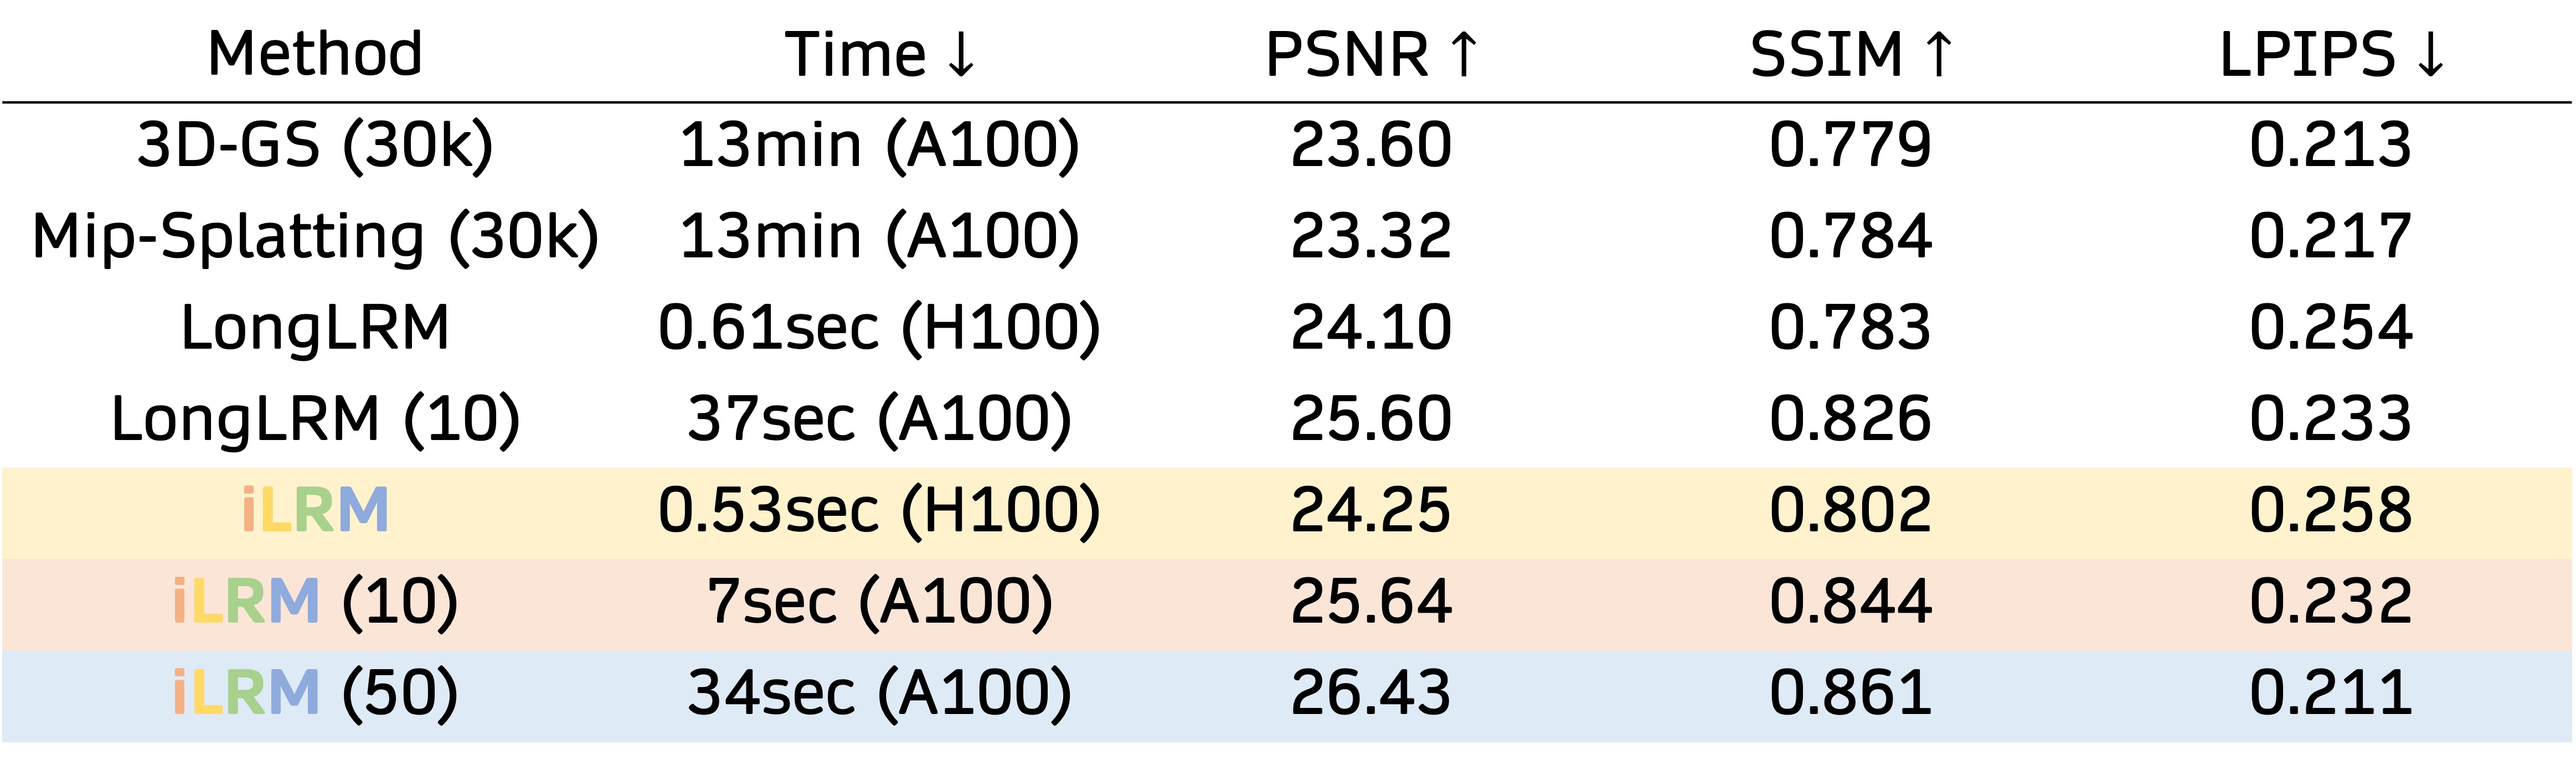
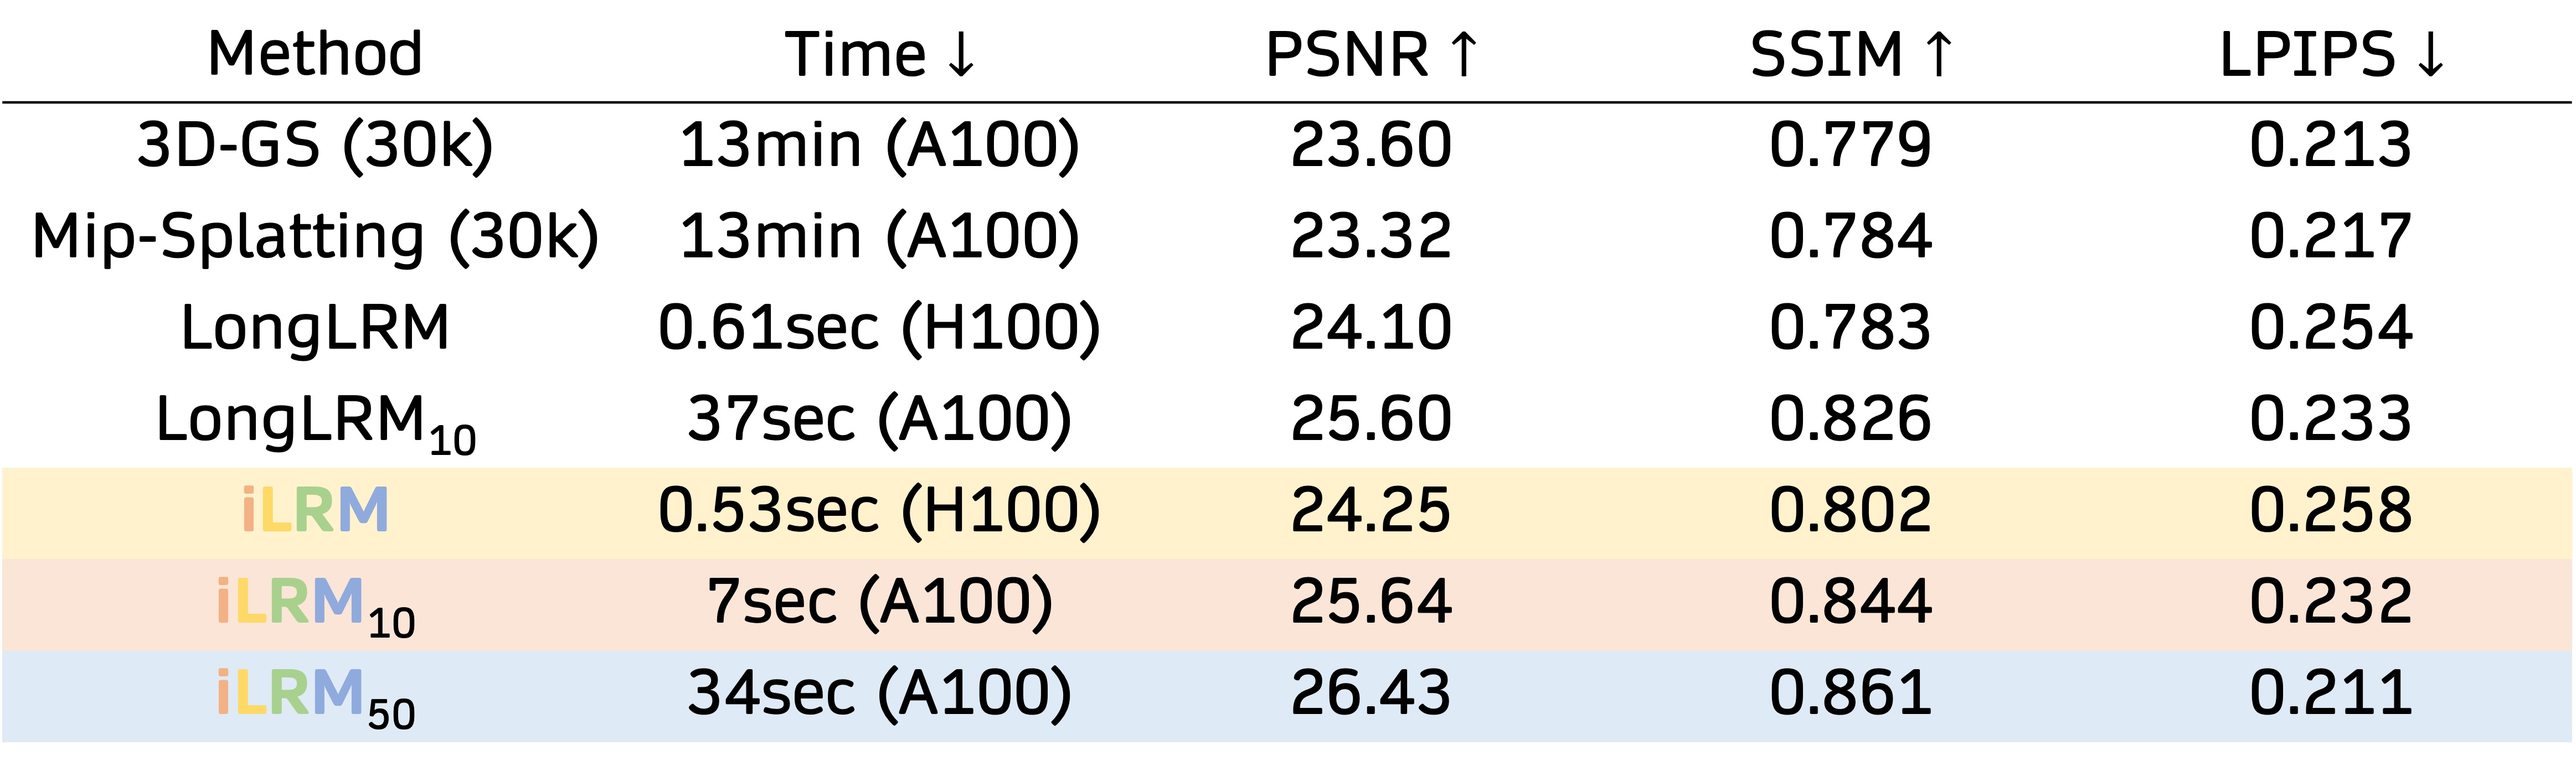
update

Changed region(s): [[0.0312, 0.4939, 0.2182, 0.5865], [0.0623, 0.7408, 0.187, 0.8335], [0.0623, 0.8643, 0.187, 0.9569]]

diff --git a/index.html b/index.html
@@ -245,7 +245,7 @@
             <em>Undistorted</em> refers to the undistorted version of the DL3DV dataset based on this <a href="https://github.com/arthurhero/Long-LRM/blob/main/data/prosess_dl3dv.py">script</a>.
             The quantitative results are presented in the table below, evaluated with 32 input images under full-frame coverage following the LongLRM protocol.
             Both 3D-GS and Mip-Splatting are trained for 30k iterations.
-            LongLRM (10) means finetuning 10 epochs initialized from the LongLRM’s generated Gaussians. 
+            LongLRM<span style="vertical-align: sub; font-size: smaller;">10</span> means finetuning 10 epochs initialized from the LongLRM’s generated Gaussians. 
             Since we generate more compact 3D Gaussian representations, our finetuning converges much faster than LongLRM.
             <b>We utilized FlashAttention-3 for the zero-shot inference.</b>
           </p>         
